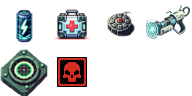
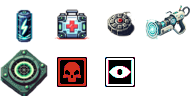
show map boost

Changed region(s): [[0.5312, 0.5938, 0.7188, 0.9062]]

diff --git a/src/game/scenes/main-scene/MainScene.js b/src/game/scenes/main-scene/MainScene.js
@@ -545,6 +545,7 @@ export default class MainScene extends Phaser.Scene {
       case Const.Command.picked:
         {
           if (response.picked) {
+            self.allPlayers[response.player.walletAddress].activeBoosts = response.player.activeBoosts;
             const { x, y } = response.player?.pos;
             if (self.mainPlayer?.walletAddress === response.player.walletAddress) {
               if (response.picked.type == GameObject.quad_damage.type) {
@@ -553,10 +554,13 @@ export default class MainScene extends Phaser.Scene {
                 self.pickUpSound.play();
               }
               self.mainPlayer.equipment = response.player.equipment;
+              if (response.picked.type === GameObject.show_map.type) {
+                BOOSTS.show_map.effect(self.fov);
+              }
             } else {
               self.allPlayers[response.player.walletAddress]?.pickAnim();
             }
-            self.allPlayers[response.player.walletAddress].activeBoosts = response.player.activeBoosts;
+
             if (response.player.activeBoosts[BOOSTS.quad_damage.type]) {
               self.allPlayers[response.player.walletAddress].showQuadDamageBoost();
             }

diff --git a/src/game/objects/MainPlayer.js b/src/game/objects/MainPlayer.js
@@ -160,8 +160,10 @@ export default class MainPlayer extends Player {
       if (!this.stats.previousAttackTs || now - this.stats.previousAttackTs > this.stats.weapon.attack_recovery_ms) {
         await this.send({ cmd: attack, dir });
         doPlayAttackSound(this.beaverChoice, this.scene);
-        if (this.mainScene.mainPlayer.activeBoosts[BOOSTS.quad_damage.type]) {
-          this.mainScene.shotBuzz.play();
+        if (this.mainScene.mainPlayer.activeBoosts) {
+          if (this.mainScene.mainPlayer.activeBoosts[BOOSTS.quad_damage.type]) {
+            this.mainScene.shotBuzz.play();
+          }
         }
         this.attackAnim();
       }

diff --git a/src/game/scenes/main-scene/maps.js b/src/game/scenes/main-scene/maps.js
@@ -15,6 +15,7 @@ const gameObjectsToAdd = {
   [GameObject.teleport_device.type]: { x: 144, y: 0 },
   [GameObject.scanner_device.type]: { x: 0, y: 48 },
   [GameObject.quad_damage.type]: { x: 48, y: 48 },
+  [GameObject.show_map.type]: { x: 96, y: 48 },
 };
 
 export function doCreateTileMap(mainScene) {

diff --git a/src/game/process/cmd/__init.js b/src/game/process/cmd/__init.js
@@ -45,6 +45,7 @@ function initState(message, state) {
       GameObject.equipment_mine,
       GameObject.scanner_device,
       GameObject.quad_damage,
+      GameObject.show_map,
       GameObject.none,
     ],
     gameHiddenObjects: Array(mapHeight)
